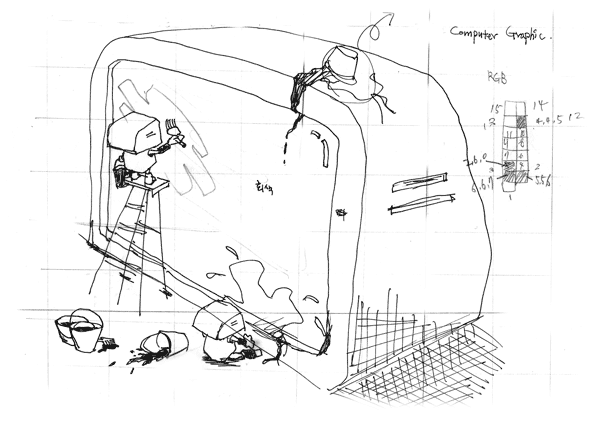
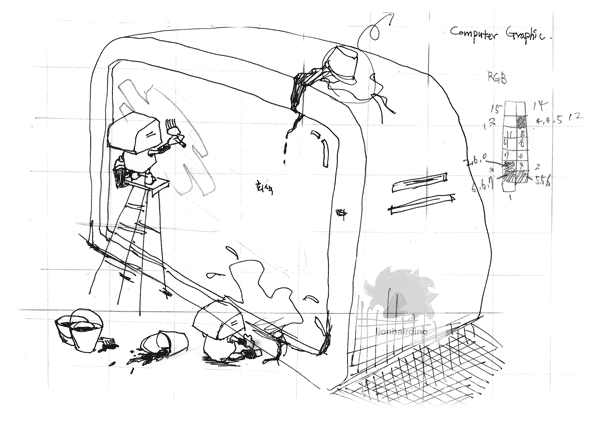
deploy: lionhairdino/siteSource@5d3e803c6d5282250e4875349b505f26f1de8e45

Changed region(s): [[0.57, 0.6176, 0.75, 0.8337], [0.57, 0.8955, 0.69, 0.9264], [0.72, 0.8955, 0.78, 0.9264]]

diff --git a/about.html b/about.html
@@ -26,21 +26,23 @@
         <div id="content">
             <h1>About</h1>
 
-            <p>하스켈은 순수한 함수만을 가질 수 있는 언어지만, 실용 프로그램은 순수한 영역에서만 돌아갈 수 없습니다. 비순수한 영역에 접근 할 수 없다면, 극히 제한된 실용 프로그램만 만들 수 있습니다. 하스켈은 순수한 영역만 다룰 수 있는 언어가 아니라, 순수한 영역과 비순수 영역을 완벽하게 분리해 놓을 수 있는 언어라고 보는게 맞습니다.</p>
+            <figure>
+<img src="./images/computerGraphics.png" alt /><figcaption>ComputerGraphics</figcaption>
+</figure>
 <p>순수한 함수는 입력이 같으면 결과가 항상 같아야 합니다. 그럼 랜덤 함수는 어떻게 만들 수 있을까요? 매 번 입력을 다르게 해서 불리도록 만듭니다. 정말 항상 다른 입력을 넘기는 걸까요? 맞습니다. 항상 그렇게 합니다. 항상 그렇게 하지만, 사용자가 불편하지 않게 “가려 놓는” 패턴들을 이용해서 불편을 해소합니다. 굉장한 매직을 일으키는게 아니라 단순히 “안 보이게” 하는 패턴들인데, 단점은 이 들을 이해하는게 꽤 까다롭습니다.</p>
 <p>이 블로그는 대부분 하스켈의 까다로운 부분을 이해하기 위해 발버둥치다 “아하!”한 순간의 노트입니다. 공식적인 기관이 아닌 개인 노트이므로, 검증절차가 따로 없어 틀린 내용이 있을 수도 있습니다. 발견하신 분들은 글을 남겨 주시면, 이 블로그 작성자뿐 아니라 여기를 찾는 다른 분들에게 큰 도움이 됩니다.</p>
 <p>Basic<br />
-Z80 Assembly<br />
+Z80 Ambly<br />
 Pascal<br />
-GW-Basic<br />
+GW-Bas<br />
 C<br />
-Macromedia Director<br />
+Momedia Director<br />
 Visual Basic<br />
 PHP<br />
-Flash Actionscript<br />
+FlaActionscript<br />
 C++<br />
-Javascript<br />
-그리고 지금은 Haskell, PureScript.</p>
+Javript<br />
+그리고 지금은 Hall, PureScript.</p>
 <p><a href="https://www.hanbit.co.kr/">한빛미디어</a>, <a href="https://www.facebook.com/seungsanbooks/">승산</a>을 좋아합니다.</p>
 <p>lionhairdino at gmail.com</p>
         </div>
